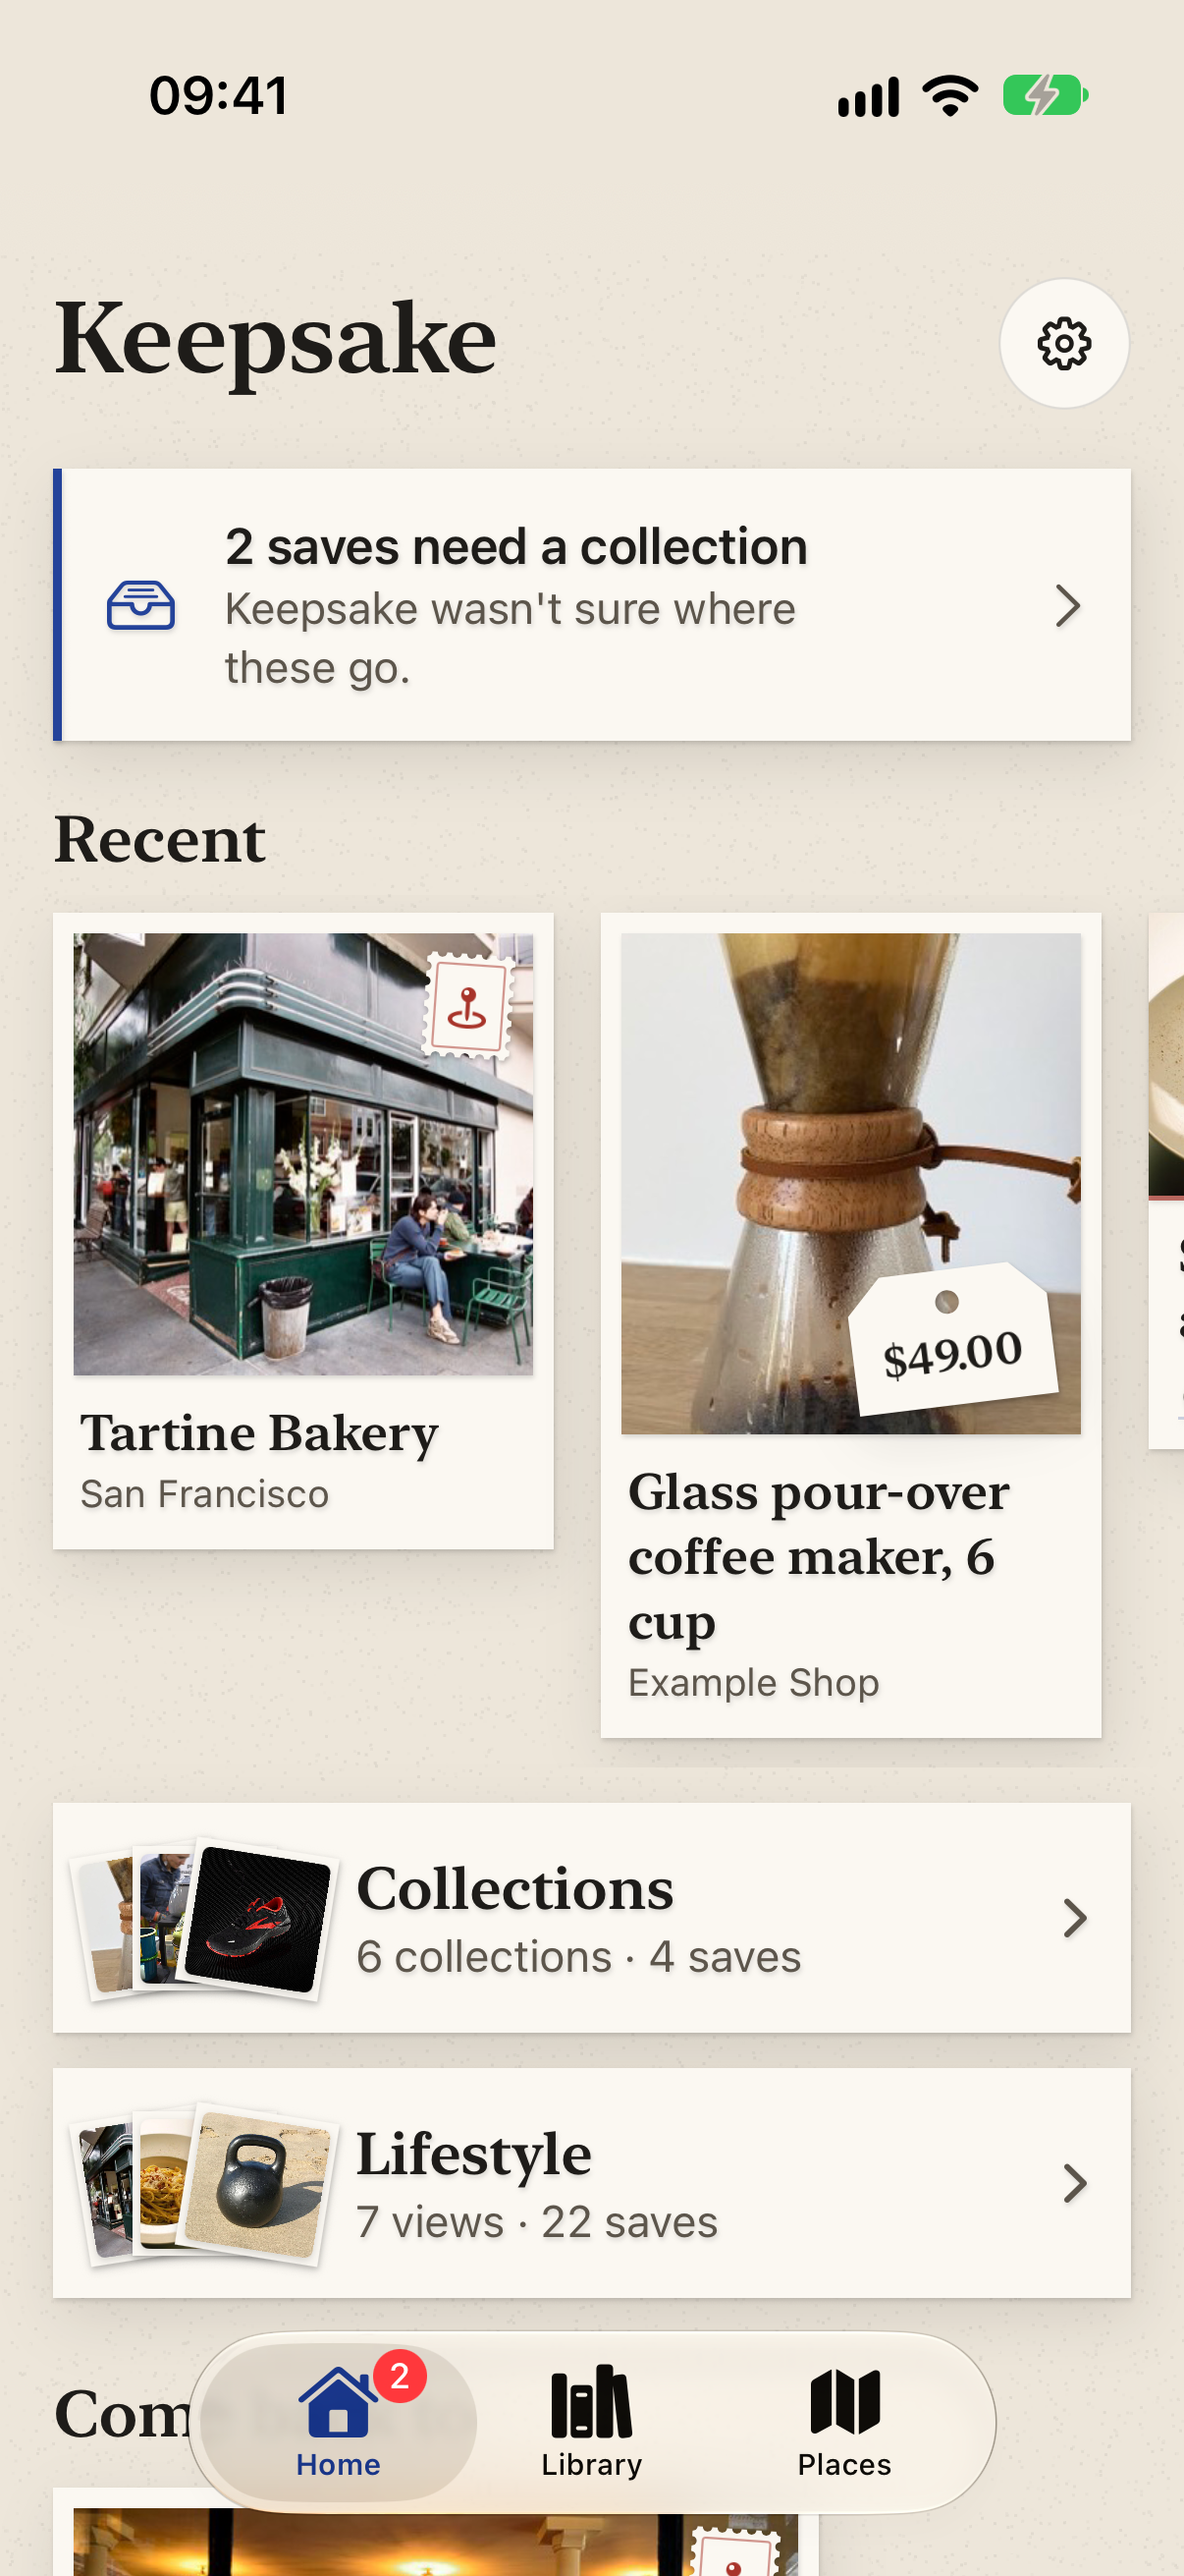
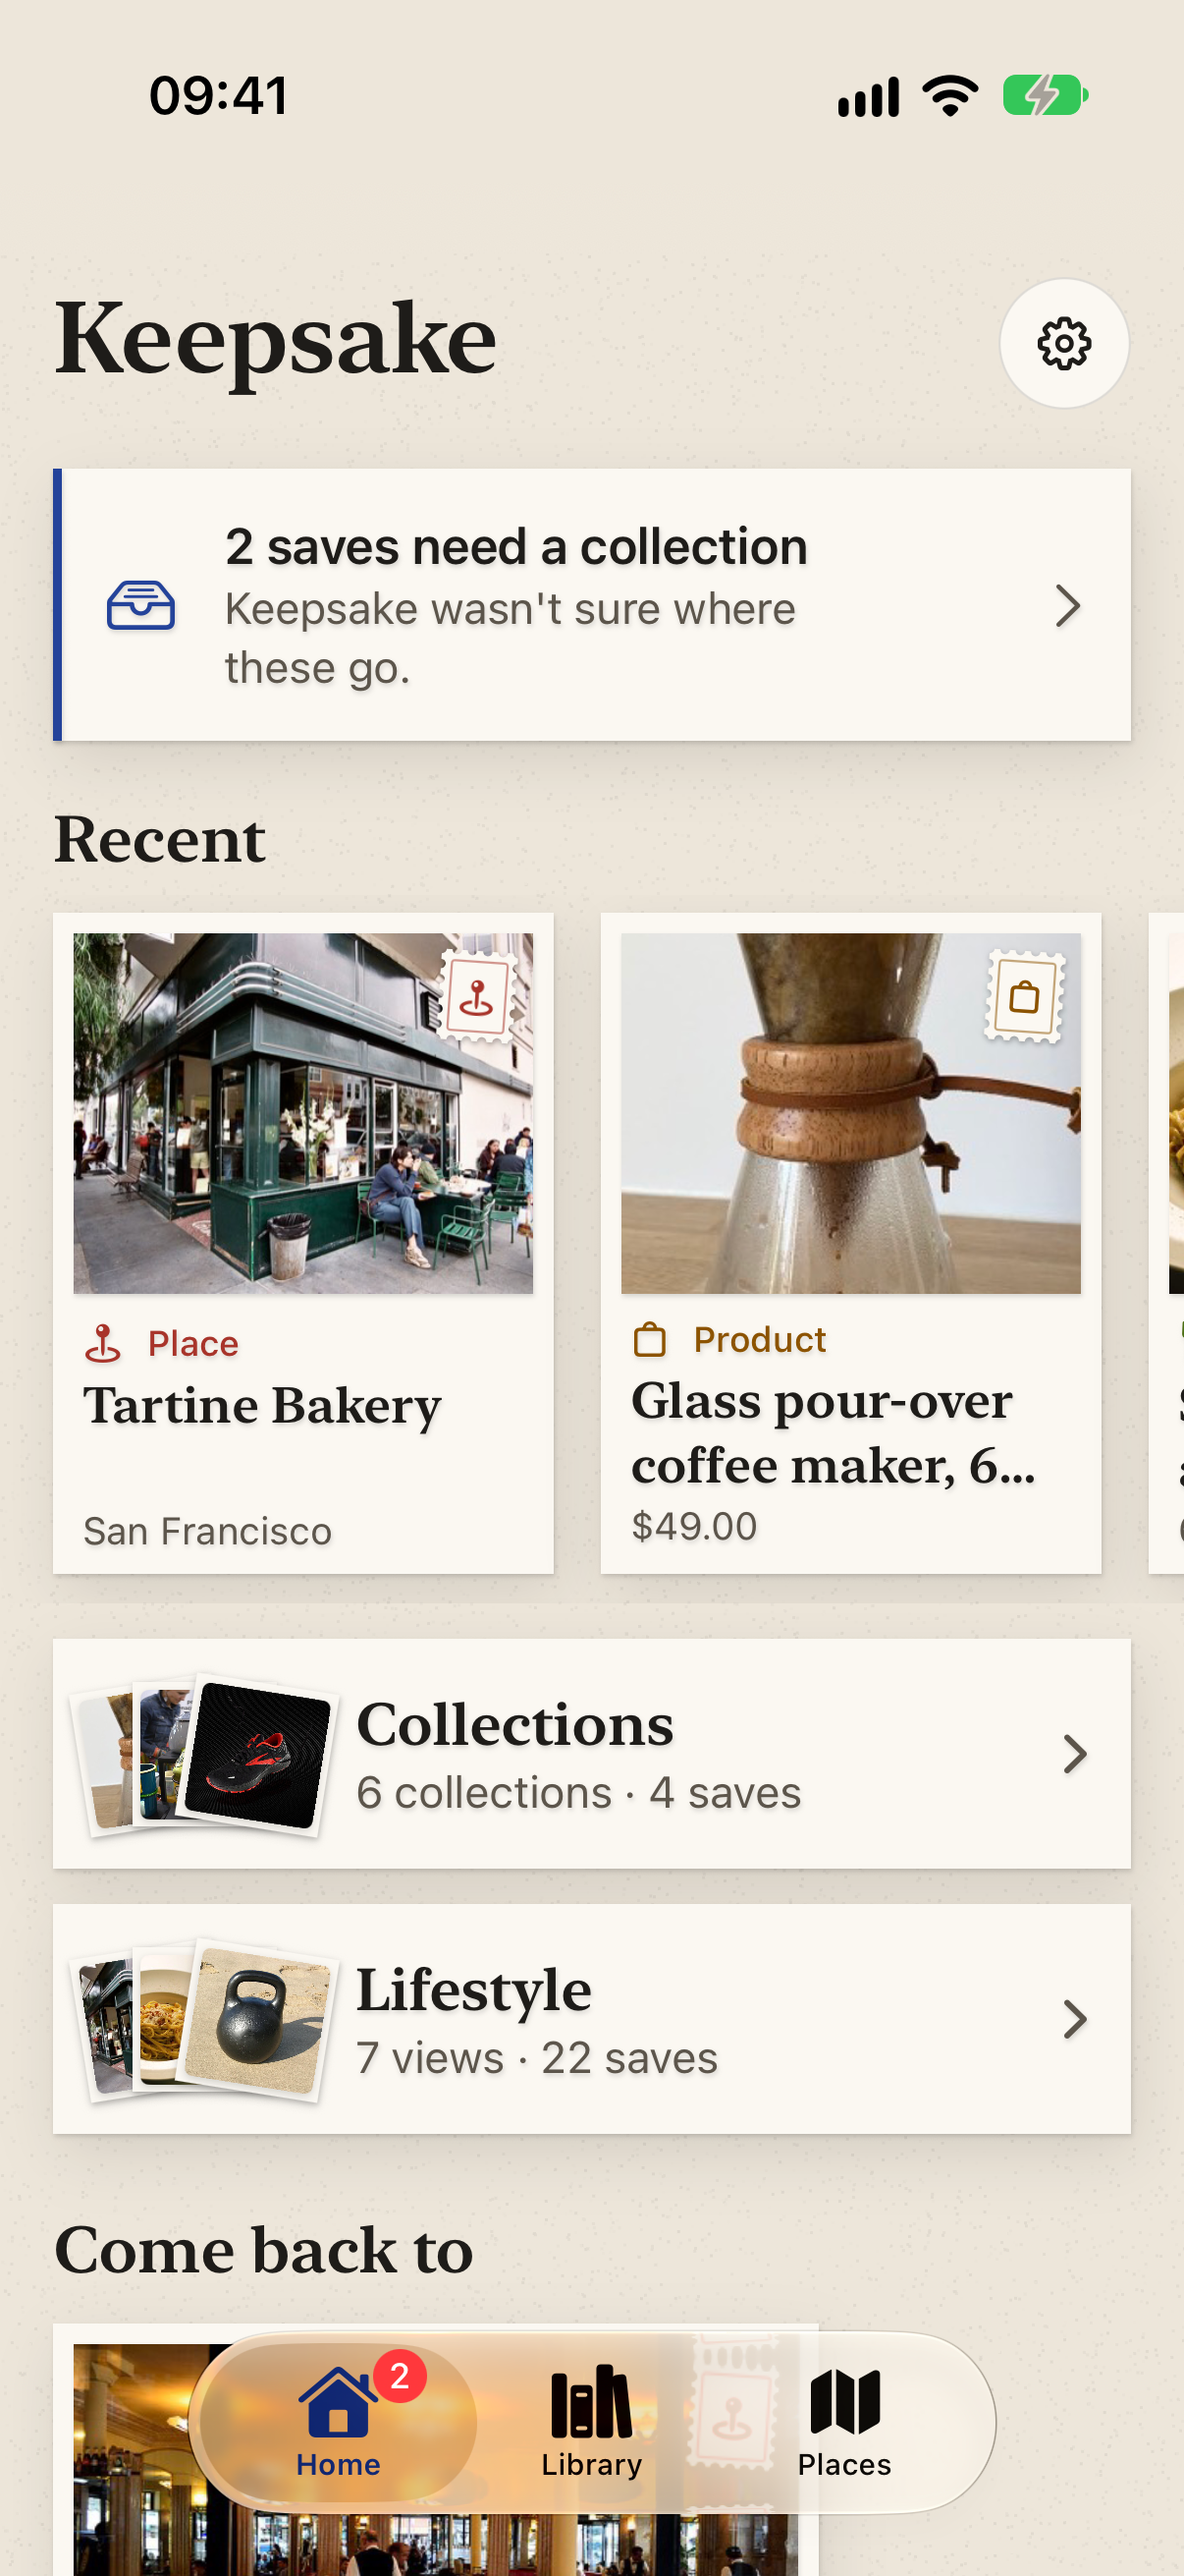
iOS: Recent cards keep a two-line name without spare paper below
ShelfCard's text area was 92 pt tall, leaving about 20 pt of empty paper under every
card. It is now 80 pt (it still grows with Dynamic Type), and the name always keeps
its two lines, so a short name can't push the line under it out of line with the
next card's. Card screenshots regenerated.

diff --git a/ios/KeepsakeKit/Sources/KeepsakeUI/SaveObject.swift b/ios/KeepsakeKit/Sources/KeepsakeUI/SaveObject.swift
@@ -258,7 +258,7 @@ public struct ShelfCard: View {
     let width: CGFloat
     @Environment(\.ks) private var t
     /// Grows with Dynamic Type, so the name and fact keep their room.
-    @ScaledMetric(relativeTo: .headline) private var textHeight: CGFloat = 92
+    @ScaledMetric(relativeTo: .headline) private var textHeight: CGFloat = 80
     public init(_ save: Save, width: CGFloat) { self.save = save; self.width = width }
 
     private var done: Bool { save.status == "done" || save.purchased == true }
@@ -276,7 +276,8 @@ public struct ShelfCard: View {
                 }
             VStack(alignment: .leading, spacing: 3) {
                 KindLabel(kind: save.kind)
-                Text(save.title).font(KSFont.name(.headline)).foregroundStyle(t.ink).lineLimit(2)
+                Text(save.title).font(KSFont.name(.headline)).foregroundStyle(t.ink).lineLimit(2, reservesSpace: true)
+                    .fixedSize(horizontal: false, vertical: true)   // never squeezed to one line
                 if let fact = save.fact, !fact.isEmpty { Text(fact).font(KSFont.fact).foregroundStyle(t.inkMuted).lineLimit(1) }
             }
             .padding(.horizontal, 3)
